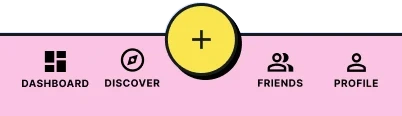
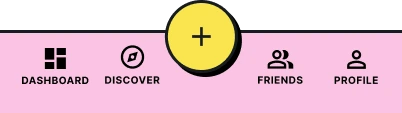
PlayMate: tab bars from the supplied files on the final screens, last page shows the summary instead of an empty column

diff --git a/src/styles/playmate-frames.css b/src/styles/playmate-frames.css
@@ -536,3 +536,4 @@
 @media (max-width: 1100px), (max-height: 760px) {
   .work:has(.pmx) { --img-h: min(800px, calc(100cqh - 2 * var(--pad) - var(--peek-offset, 0px) - 28px)); }
 }
+.work .scroll-body{background:#dee8fe}

diff --git a/src/content/projects/playmate.md b/src/content/projects/playmate.md
@@ -97,11 +97,11 @@ gallery:
     items:
       - { src: /images/playmate-final-01.webp, alt: 'Onboarding: More than just a game', width: 402, height: 874 }
       - { src: /images/playmate-screen-home-body.webp, alt: 'Home: upcoming matches, quick links to match history and ratings, and courts nearby', width: 402, height: 1278, head: { src: /images/playmate-screen-home-head.webp, alt: '', width: 402, height: 102 }, foot: { src: /images/playmate-screen-home-foot.webp, alt: '', width: 402, height: 116, nav: 84 } }
-      - { src: /images/playmate-screen-map-body.webp, alt: 'Find a Match on the map, with a selected game card and Join Game', width: 402, height: 528, head: { src: /images/playmate-screen-map-head.webp, alt: '', width: 402, height: 252 }, foot: { src: /images/playmate-screen-map-foot.webp, alt: '', width: 402, height: 116, nav: 84 } }
+      - { src: /images/playmate-screen-map-body.webp, alt: 'Find a Match on the map, with a selected game card and Join Game', width: 402, height: 528, head: { src: /images/playmate-screen-map-head.webp, alt: '', width: 402, height: 252 }, foot: { src: /images/playmate-screen-map-foot.webp, alt: '', width: 402, height: 113, nav: 84 } }
       - { src: /images/playmate-screen-create.webp, alt: 'Create a game: title, sport, player limits, waitlist, schedule, cost split and venue', width: 402, height: 1742 }
-      - { src: /images/playmate-screen-friends-body.webp, alt: 'Friends: favourite playmates, recent chats and all friends', width: 402, height: 1256, head: { src: /images/playmate-screen-friends-head.webp, alt: '', width: 402, height: 102 }, foot: { src: /images/playmate-screen-friends-foot.webp, alt: '', width: 402, height: 116, nav: 84 } }
-      - { src: /images/playmate-screen-friend-profile-body.webp, alt: 'A friend’s profile: photo, skill rating, trophy case, performance metrics and teammate reviews, with Friends, Message and Invite to game buttons', width: 402, height: 2039, head: { src: /images/playmate-screen-friend-profile-head.webp, alt: '', width: 402, height: 102 }, foot: { src: /images/playmate-screen-friend-profile-foot.webp, alt: '', width: 402, height: 116, nav: 84 } }
-      - { src: /images/playmate-screen-no-show-body.webp, alt: 'No-show penalty: reliability impact, incident log, the policy and an appeal button', width: 402, height: 950, head: { src: /images/playmate-screen-no-show-head.webp, alt: '', width: 402, height: 102 }, foot: { src: /images/playmate-screen-no-show-foot.webp, alt: '', width: 402, height: 116, nav: 84 } }
+      - { src: /images/playmate-screen-friends-body.webp, alt: 'Friends: favourite playmates, recent chats and all friends', width: 402, height: 1256, head: { src: /images/playmate-screen-friends-head.webp, alt: '', width: 402, height: 102 }, foot: { src: /images/playmate-screen-friends-foot.webp, alt: '', width: 402, height: 113, nav: 84 } }
+      - { src: /images/playmate-screen-friend-profile-body.webp, alt: 'A friend’s profile: photo, skill rating, trophy case, performance metrics and teammate reviews, with Friends, Message and Invite to game buttons', width: 402, height: 2039, head: { src: /images/playmate-screen-friend-profile-head.webp, alt: '', width: 402, height: 102 }, foot: { src: /images/playmate-screen-friend-profile-foot.webp, alt: '', width: 402, height: 113, nav: 84 } }
+      - { src: /images/playmate-screen-no-show-body.webp, alt: 'No-show penalty: reliability impact, incident log, the policy and an appeal button', width: 402, height: 950, head: { src: /images/playmate-screen-no-show-head.webp, alt: '', width: 402, height: 102 }, foot: { src: /images/playmate-screen-no-show-foot.webp, alt: '', width: 402, height: 113, nav: 84 } }
   - label: Outcome
     frame: outcome
   - label: Overview
